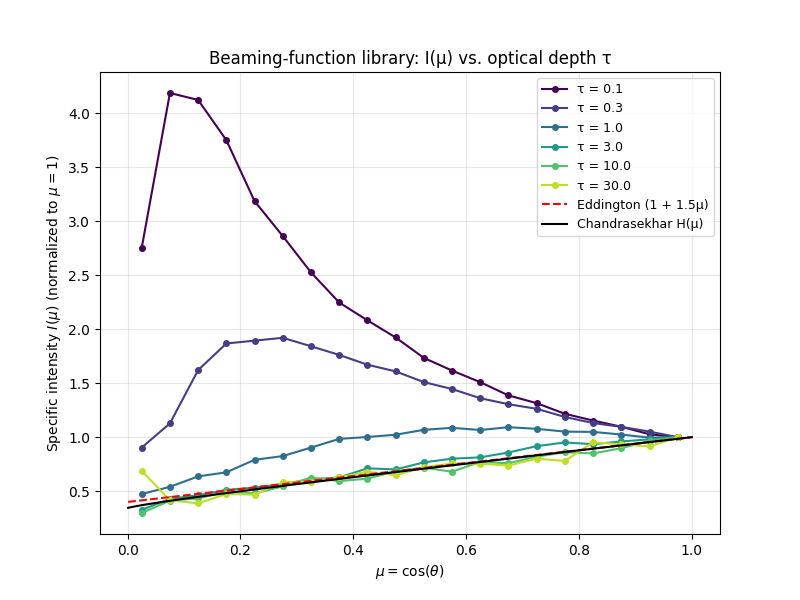
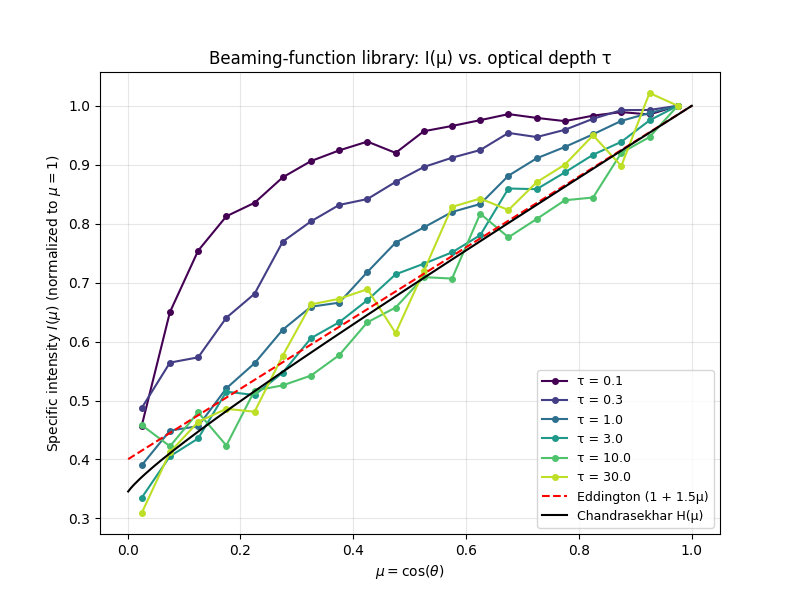
fix: inject isotropic-intensity source via costheta=sqrt(U)
Boundary thermal source is isotropic in specific intensity, so photon
number per mu goes as N(mu) ∝ mu. Replace uniform-in-mu injection (which
is isotropic in solid angle, not intensity) with costheta=sqrt(U). Removes
the thin-tau limb brightening: b(tau) now rises monotonically ~0.3 -> ~1.75
instead of starting negative. Thick end unchanged (tau=10 ~1.79); 9/9 tests
pass. Regenerated library figures.

diff --git a/src/mcrt/monte_carlo.py b/src/mcrt/monte_carlo.py
@@ -51,12 +51,14 @@ class Simulation:
     def run(self):
         """Run the simulation for all photons."""
         for _ in range(self.num_photons):
-            # Inject photon at the bottom boundary (tau = tau_total)
-            # Initial direction is upward but sampled isotropically over the hemisphere?
-            # The proposal says "photons returning downward are lost to thermal source".
-            # For injection, let's sample from an isotropic hemispherical distribution.
+            # Inject photon at the bottom boundary (tau = tau_total), moving upward.
+            # The thermal source is isotropic in *specific intensity*, so the photon
+            # number crossing the boundary per unit mu goes as N(mu) ∝ mu (the cos θ
+            # projection). Sampling costheta = sqrt(U) reproduces that ∝ mu law;
+            # uniform(0,1) would instead over-produce grazing photons (isotropic in
+            # solid angle, not in intensity) — see docs/deep-dives/v0.6.1.
             phi = np.random.uniform(0, 2 * np.pi)
-            costheta = np.random.uniform(0, 1) # 0 to 1 is upward (-z in our tau coords)
+            costheta = np.sqrt(np.random.uniform(0, 1))  # 0 to 1 is upward (-z in tau coords)
             sintheta = np.sqrt(1 - costheta**2)
             
             # Note: In our coordinate system, tau decreases upwards.